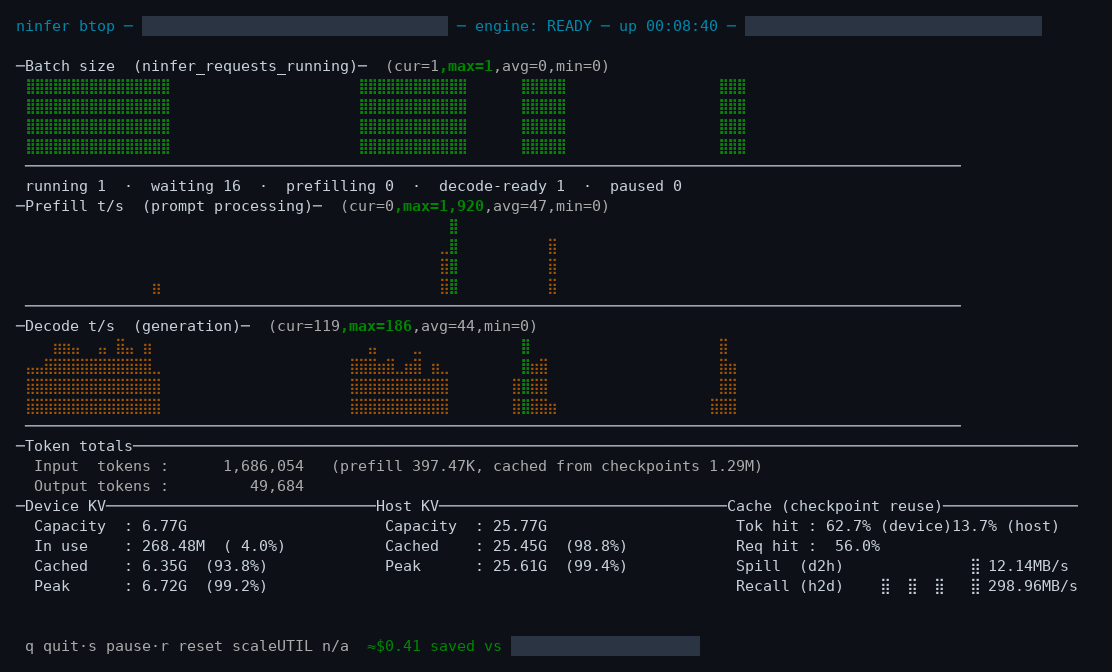
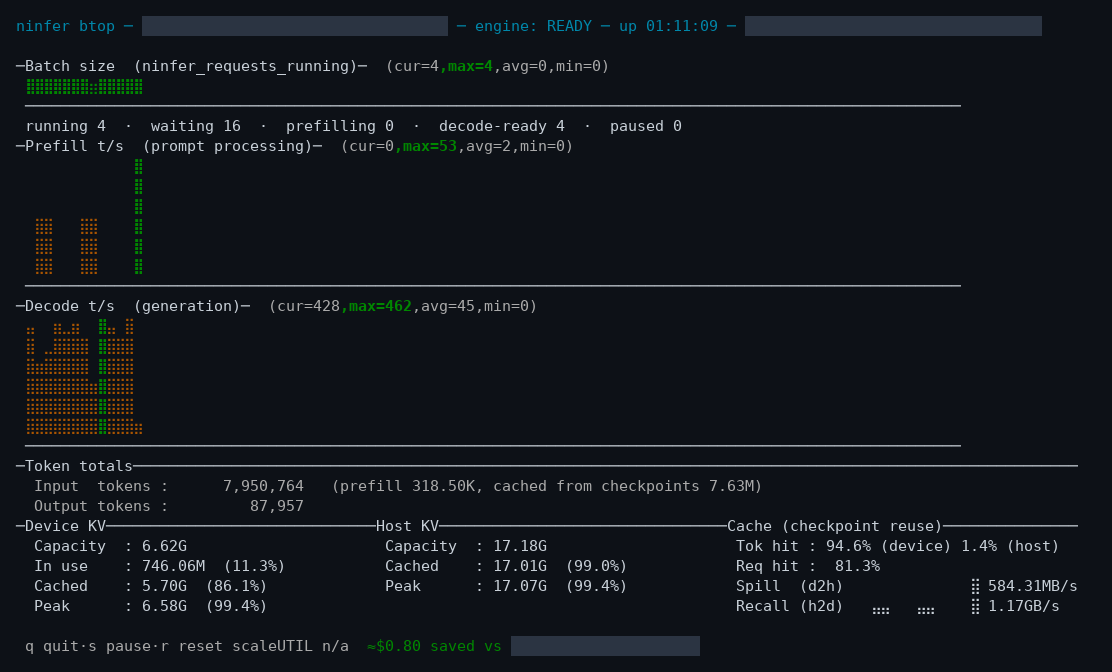
batch panel: height follows max_concurrency, pinned 1-dot-per-request scale
The batch panel is now ceil(max_concurrency/4) braille chars high (one
character resolves 4 dot levels = 4 concurrent requests; for ninfer's cap
of 8 that is 1 or 2 chars) and its scale is pinned to max_concurrency:
one dot level is always exactly one request, the window max never stretches
it, and overload clips at the top. Rows freed by the shorter panel go to
the prefill/decode graphs; prefill/decode stay autoscaled.

Graph.fixed flag + max_for_scale() pinning (pre-anchor fallback to window
max); resize rebuild preserves floor+fixed. New tests J1-J4 (height table
for both layouts, floor preservation, no-stretch/pin semantics). README +
module docstring document the rule. Hero re-captured (engine recalibrated
to max_concurrency 4; 1-char panel at full load).

39/39 unit tests green.

diff --git a/ninfer_btop.py b/ninfer_btop.py
@@ -3,6 +3,12 @@
 
 Polls the engine's Prometheus metrics endpoint and renders:
   * scrolling bar graph: batch size  (ninfer_requests_running)
+    (height follows the engine's max concurrency: one braille character
+    resolves 4 dot levels = 4 concurrent requests, so the panel is
+    ceil(max_concurrency/4) chars high. The scale is pinned to
+    max_concurrency - one dot level is always one request, the window max
+    never stretches it, and overload clips at the top; for ninfer's cap
+    of 8 the panel is 1 or 2 chars high)
   * scrolling bar graph: prefill t/s (rate of ninfer_prefill_tokens_total)
   * scrolling bar graph: decode t/s  (rate of ninfer_generation_tokens_total)
     (btop's braille glyphs: one sample per character - a flat column of
@@ -562,12 +568,18 @@ class Graph:
     """Scrolling bar history. The newest sample sits at the left edge: bars
     enter on the left and scroll out on the right. One sample per drawn
     character, so a redraw after each poll shifts the graph by exactly one
-    character - it can never jump."""
+    character - it can never jump.
 
-    def __init__(self, width, floor=0.0):
+    `fixed` graphs pin their scale to `floor` (e.g. the engine's
+    max_concurrency for the batch graph): each unit of value is always
+    exactly one dot level, the window max never stretches the scale, and
+    values above the anchor clip at the top of the plot."""
+
+    def __init__(self, width, floor=0.0, fixed=False):
         self.hist = deque(maxlen=width)
         self.scale = None  # None => autoscale to window max
         self.floor = floor  # autoscale never goes below this (e.g. max_concurrency)
+        self.fixed = fixed  # True: scale is pinned to floor, no autoscale
 
     def add(self, v):
         self.hist.append(None if v is None else max(0.0, float(v)))
@@ -582,6 +594,11 @@ class Graph:
     def max_for_scale(self):
         vals = self.values
         m = max(vals) if vals else 0.0
+        # pinned scale: the anchor is the whole scale - the window max never
+        # stretches it (overshoots clip at the top); before the anchor is
+        # known, fall back to the window max so early samples still render
+        if self.fixed and self.floor > 0:
+            return self.floor
         if self.scale is not None:
             return max(m, self.scale)
         return max(m, self.floor)
@@ -967,14 +984,26 @@ def frame(scr, eng, graphs, paused, c):
     # title + 4 shared rows (incl. the spill/recall bars) + 1 footer; the
     # cur/min/max/avg figures sit in the panel titles, plots take the rest
     fixed = 18 if CALIB is not None else 17
-    plot_rows = max(1, min(6, (max_y - fixed) // 3))
+    # the batch panel's height follows the engine's max concurrency (kept in
+    # Graph.floor, updated on every poll): one braille character resolves 4
+    # dot levels, so N concurrent requests need ceil(N/4) characters
+    # (<=4 -> 1 char, 5-8 -> 2, 9-12 -> 3, ...), which makes each dot level
+    # exactly one request. ninfer caps concurrency at 8, so its batch graph
+    # is 1 or 2 chars high. Before the first max-concurrency sample the
+    # panel falls back to the even three-way split of the remaining rows.
+    if g_batch.floor > 0:
+        rows_batch = max(1, min(6, -(-int(g_batch.floor) // 4)))
+    else:
+        rows_batch = max(1, min(6, (max_y - fixed) // 3))
+    # prefill/decode share the rows the batch panel does not use
+    plot_rows = max(1, min(6, (max_y - fixed - rows_batch) // 2))
 
     # --- batch panel
     b = (s or {}).get("running")
     cur_b = f"{b:.0f}" if b is not None else "—"
     y = draw_panel(scr, y, "Batch size  (ninfer_requests_running)", "batch", c, width,
                    metric_stat_segments(g_batch, cur_b))
-    y = draw_bar_graph(scr, y, g_batch, plot_rows, width, "batch", c)
+    y = draw_bar_graph(scr, y, g_batch, rows_batch, width, "batch", c)
     if s:
         # paused is the one lane number that signals a problem: a live
         # request stalled on a capacity event, so paint it red when non-zero
@@ -1123,7 +1152,8 @@ def main_loop(stdscr, args):
     max_y, max_x = stdscr.getmaxyx()
     gwidth = max(20, max_x - 16)
     # one sample per drawn character: histories are the column count
-    graphs = {"batch": Graph(gwidth), "toks": Graph(gwidth), "prefill": Graph(gwidth),
+    graphs = {"batch": Graph(gwidth, fixed=True),  # pinned: 1 dot level = 1 request
+              "toks": Graph(gwidth), "prefill": Graph(gwidth),
               # transfer sparklines: fixed 13-char width (13 samples ~ 6.5 s
               # at the default 500 ms poll), independent of terminal width
               "xfer_d2h": Graph(13), "xfer_h2d": Graph(13)}
@@ -1161,8 +1191,9 @@ def main_loop(stdscr, args):
             gwidth = max(20, nx - 16)
             for k in ("batch", "toks", "prefill"):  # xfer sparklines stay 13 chars
                 old = list(graphs[k].hist)
-                graphs[k] = Graph(gwidth)
-                graphs[k].hist.extend(old[-gwidth:])
+                g2 = Graph(gwidth, floor=graphs[k].floor, fixed=graphs[k].fixed)
+                g2.hist.extend(old[-gwidth:])
+                graphs[k] = g2
             frame(stdscr, eng, graphs, paused, c)
 
         ch = stdscr.getch()

diff --git a/test_ninfer_btop.py b/test_ninfer_btop.py
@@ -587,6 +587,61 @@ class TestXferSpillRecall(Base):
         self.assertEqual(nb._rate_val(12_400_000.0), "12.40MB/s")
 
 
+# --------------------- J. batch panel height follows max concurrency
+
+class TestBatchHeight(Base):
+    """J: the batch panel is ceil(max_concurrency/4) chars high (1 braille
+    character resolves 4 dot levels = 4 concurrent requests)."""
+
+    def _panel_height(self, floor, calib, max_y=40):
+        nb.CALIB = calib
+        scr = FakeScreen(max_y, 120)
+        eng = make_engine(True)
+        eng.last_frame = self._sample()
+        graphs = {"batch": nb.Graph(60, floor=floor),
+                  "toks": nb.Graph(60), "prefill": nb.Graph(60)}
+        nb.frame(scr, eng, graphs, False, {})
+        b = min(rows_with(scr, "Batch size"))
+        p = min(rows_with(scr, "Prefill t/s"))
+        # title row + N graph rows + baseline row, then the next panel title
+        return p - b - 2
+
+    def test_J1_height_table(self):
+        for floor, want in ((0, 6), (1, 1), (4, 1), (5, 2), (8, 2),
+                            (9, 3), (12, 3), (24, 6), (28, 6)):
+            got = self._panel_height(floor, None)
+            self.assertEqual(got, want, "floor=%s" % floor)
+
+    def test_J2_calibrated_header_same_rule(self):
+        self.assertEqual(self._panel_height(1, CALIB_OK), 1)
+        self.assertEqual(self._panel_height(8, CALIB_OK), 2)
+
+    def test_J3_floor_preserved_on_resize_rebuild(self):
+        g = nb.Graph(60, floor=8)
+        g.add(3.0)
+        g2 = nb.Graph(40, floor=g.floor, fixed=g.fixed)
+        g2.hist.extend(list(g.hist)[-40:])
+        self.assertEqual(g2.floor, 8.0)
+        self.assertEqual(list(g2.hist), list(g.hist)[-40:])
+
+    def test_J4_fixed_scale_never_stretches_to_window_max(self):
+        g = nb.Graph(10, floor=4, fixed=True)
+        for v in (1.0, 2.0, 8.0):  # a burst above max_concurrency
+            g.add(v)
+        self.assertEqual(g.max_for_scale(), 4.0)  # pinned: 1 dot = 1 request
+        # before the anchor is known (floor 0) it falls back to the window max
+        g0 = nb.Graph(10, floor=0.0, fixed=True)
+        g0.add(3.0)
+        self.assertEqual(g0.max_for_scale(), 3.0)
+        # plain graphs still autoscale as before
+        gp = nb.Graph(10)
+        gp.add(3.0)
+        self.assertEqual(gp.max_for_scale(), 3.0)
+        gp2 = nb.Graph(10, floor=4)
+        gp2.add(1.0)
+        self.assertEqual(gp2.max_for_scale(), 4.0)  # floor still floors autoscale
+
+
 # ------------------------------------- I. pricing loader + row selection
 
 class TestPricingLoader(Base):

diff --git a/README.md b/README.md
@@ -6,7 +6,12 @@ A btop-style live dashboard for a [NInfer](https://github.com/Neroued/ninfer) in
 
 Polls the engine's Prometheus `/metrics` endpoint and renders:
 
-- scrolling bar graph: **batch size** (`ninfer_requests_running`)
+- scrolling bar graph: **batch size** (`ninfer_requests_running`). The panel's height follows
+  the engine's max concurrency: one braille character resolves 4 dot levels (4 concurrent
+  requests), so the graph is ceil(max_concurrency / 4) characters high. Its scale is pinned
+  to max_concurrency — one dot level is always exactly one request, the window max never
+  stretches the scale, and overload clips at the top — at ninfer's cap of 8 the panel is
+  1 or 2 characters high.
 - scrolling bar graph: **prefill t/s** (inter-poll rate of `ninfer_prefill_tokens_total` —
   prompt processing). While a request is prefilling, decode t/s is correctly 0 and the prefill
   graph shows the work; both rates drop to 0 as soon as the engine is idle.
